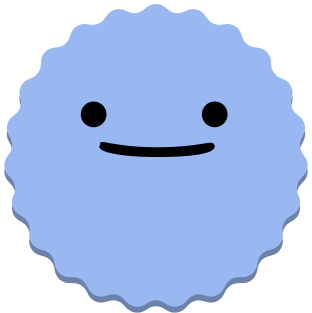
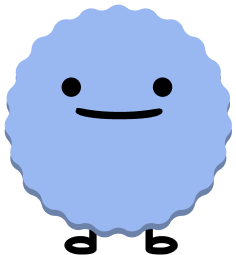
profile content

diff --git a/webpage/profile.html b/webpage/profile.html
@@ -152,6 +152,39 @@
             font-weight: 500;
             padding-top: 20px;
             padding-left: 30px;
+    
+        }
+
+        label {
+            font-size: 30px;
+            display: block;
+            padding-left: 15px;
+            text-indent: -15px;
+        }
+
+        input.checktask {
+            position: relative;
+            width: 34px;
+            height: 34px;
+            padding-left: 0;
+            margin-left: 30px;
+            margin-right: 20px;
+            vertical-align: bottom;
+            position: relative;
+            top: -1px;
+            
+        }
+
+        img.star {
+            position: relative;
+            width: 50px;
+            height: 50px;
+            padding-left: 0;
+            margin-left: 30px;
+            margin-right: 20px;
+            vertical-align: bottom;
+            position: relative;
+            top: -1px;
         }
 
     </style>
@@ -188,7 +221,9 @@
         <div class="main-content">
 
             <div class="unii-friend">
-                <h1>Your Unii Friend</h1>
+                <h1>Your Unii Friend</h1><br>
+                <img src="\webpage\images\friend.png">
+
             </div>
 
             <div class="badges">
@@ -205,11 +240,18 @@
             <div class="daily-tasks">
                 <h1>Daily Tasks</h1>
                 <!-- Add content here -->
+                <label><input class="checktask" type="checkbox">Say “Hello” to your Unii Friend!</label> <br>
+                <label><input class="checktask" type="checkbox">Complete 2 Learning exercises!</label> <br>
+                <label><input class="checktask" type="checkbox">Complete 1 Review!</label> <br>
+                <label><input class="checktask" type="checkbox">Earn a Badge!</label> <br>       
+                
             </div> 
 
             <div class="achievements">
                 <h1>Achievements</h1>
-                <!-- Add content here -->
+                <label><img class="star" src="\webpage\images\star.png">Earn a Badge!</label> <br> 
+                <label><img class="star" src="\webpage\images\star.png">10 day Streak!</label> <br>       
+                
             </div> 
 
         </div>

diff --git a/webpage/login.html b/webpage/login.html
@@ -227,7 +227,7 @@
         <input class="password" type="password" placeholder="Password">
 
         <div class="remember">
-            <input type="checkbox"> <label>Remember Me</label>
+            <label><input type="checkbox"> Remember Me</label>
 
             <a class="forgotpass" href="" target="_self">Forgot Password?</a>
         </div>
